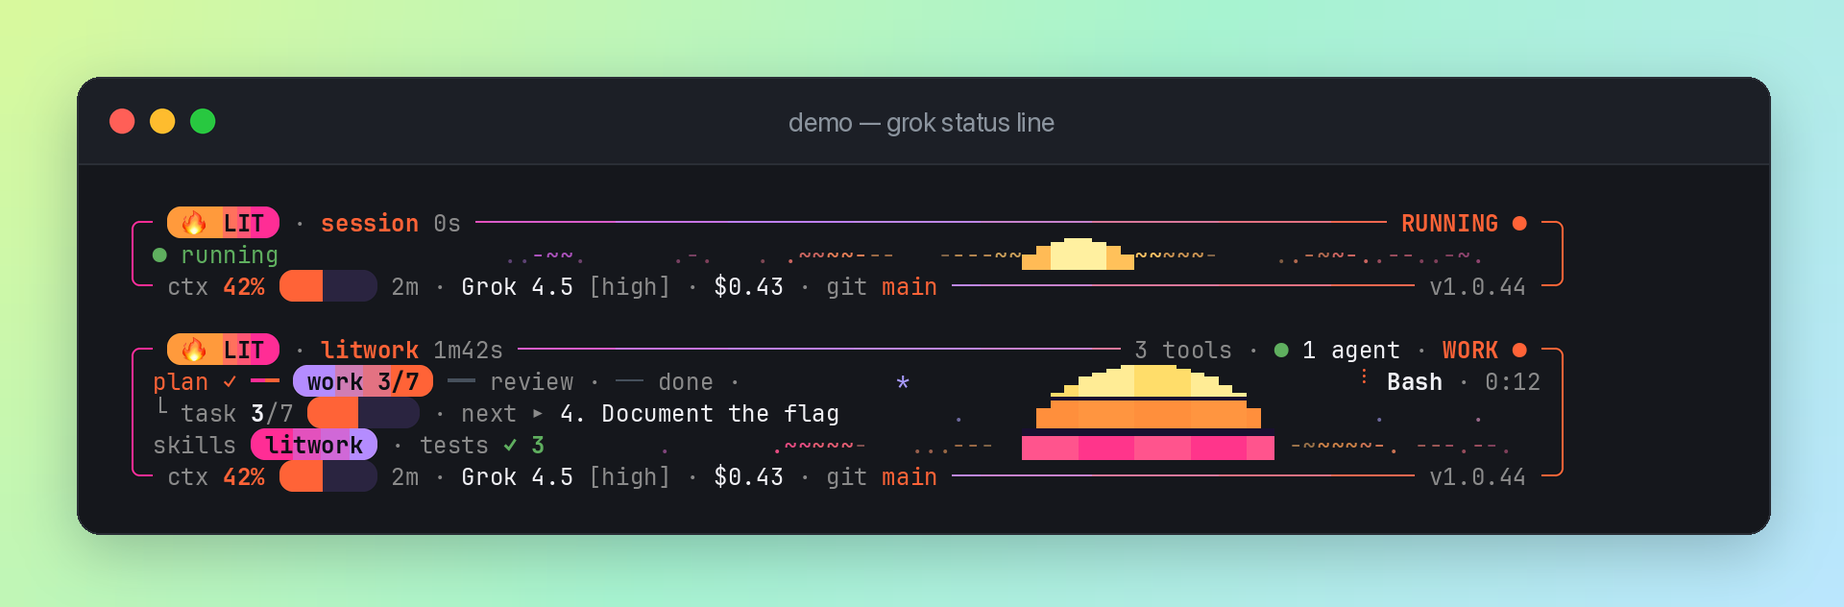
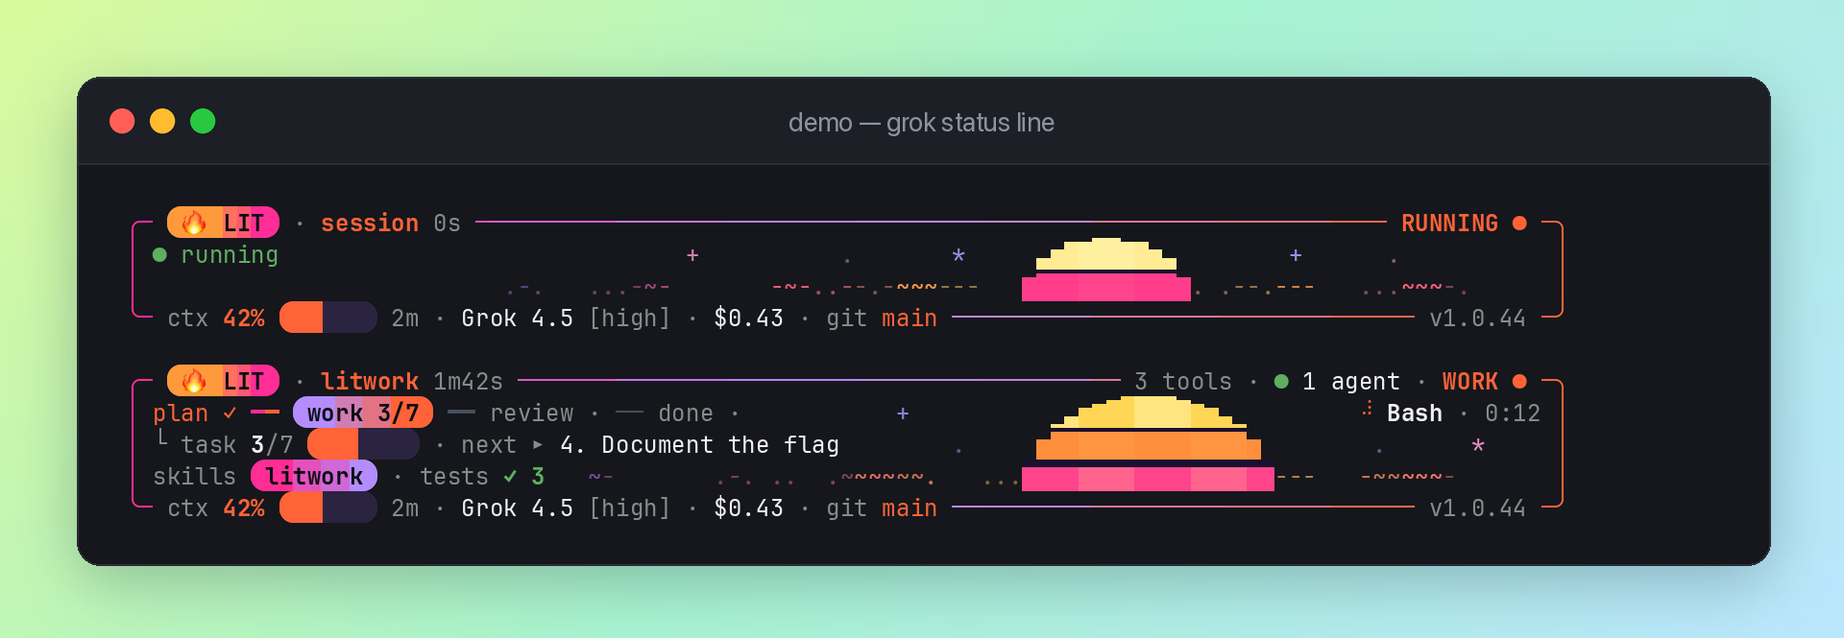
fix(hud): ready card keeps two rows so its sun has a dome

diff --git a/docs/guide.md b/docs/guide.md
@@ -60,9 +60,9 @@ When a session starts in a trusted project, the SessionStart hook prints the LIT
 
 *Captured from the SessionStart hook.*
 
-The optional [status row](#an-optional-status-row) is a card that Grok keeps at the bottom of the screen. Until a prompt names a LitGrok skill it is three lines: a flame `🔥 LIT` pill and the state on the top edge, a line that says whether a turn is running, and the context gauge, the model with its reasoning effort, the session's cost and the Git branch on the bottom edge. Once a prompt starts a skill, here `/litwork`, it grows to five. The top edge adds the skill and the turn's time, the tool calls so far and the subagents still running, with the stage as the state at the right. Inside, the stage map shows plan passed and work in progress with three of the plan's seven tasks checked, and the shell command in flight for 12 seconds; the next line has the task gauge and the next open task; the one under it the skill as a pill and the last test run. The sun, the stars and the sea stand in cells none of those words use. The window shows both states: the prompt hook was given an ordinary question first, then a `/lit-plan` prompt whose turn saved a seven-task plan and stopped, then a `/litwork` prompt. LitGrok's tool and subagent hooks logged three tool calls, one of them a real `node --test` run of three passing tests, and two subagents, one of them finished; then a shell command started, and the status-line command answered 12 seconds later. The model name, the effort, the 42%, the 2m window, the cost, the branch and the 1m42s turn are sample values passed in as input, since Grok supplies the real ones. The spinner in front of Bash turns at every redraw, and the sunset takes a step. The hooks ran as an installed copy, so the mark shows its version.
+The optional [status row](#an-optional-status-row) is a card that Grok keeps at the bottom of the screen. Until a prompt names a LitGrok skill it is four lines: a flame `🔥 LIT` pill and the state on the top edge, a line that says whether a turn is running with a small sun beside it and the sea below, and the context gauge, the model with its reasoning effort, the session's cost and the Git branch on the bottom edge. Once a prompt starts a skill, here `/litwork`, it grows to five. The top edge adds the skill and the turn's time, the tool calls so far and the subagents still running, with the stage as the state at the right. Inside, the stage map shows plan passed and work in progress with three of the plan's seven tasks checked, and the shell command in flight for 12 seconds; the next line has the task gauge and the next open task; the one under it the skill as a pill and the last test run. The sun, the stars and the sea stand in cells none of those words use. The window shows both states: the prompt hook was given an ordinary question first, then a `/lit-plan` prompt whose turn saved a seven-task plan and stopped, then a `/litwork` prompt. LitGrok's tool and subagent hooks logged three tool calls, one of them a real `node --test` run of three passing tests, and two subagents, one of them finished; then a shell command started, and the status-line command answered 12 seconds later. The model name, the effort, the 42%, the 2m window, the cost, the branch and the 1m42s turn are sample values passed in as input, since Grok supplies the real ones. The spinner in front of Bash turns at every redraw, and the sunset takes a step. The hooks ran as an installed copy, so the mark shows its version.
 
-<p align="center"><picture><source media="(prefers-color-scheme: dark)" srcset="./assets/screens/status-row-dark.webp" /><img src="./assets/screens/status-row-light.webp" width="960" alt="Terminal card titled demo — grok status line. Above, the status row between workflows, a three-line card in a pink-to-violet-to-orange frame: an orange-to-pink pill 🔥 LIT and · session on the top edge with RUNNING ● at the right, ● running inside beside a small sun on the horizon, and on the bottom edge ctx 42% with a round orange gauge, 2m · Grok 4.5 [high] · $0.43 · git main and the version. Below, the five-line LIT card. Its top edge has the pill, · litwork 1m42s in orange, and at the right 3 tools · ● 1 agent · WORK ●. The stage map reads plan ✓ ━━ with a violet-to-orange pill reading work 3/7, then review · ── done · in grey, and a spinner with Bash · 0:12 at the right. The next line reads task 3/7 with a round gauge and next ▸ 4. Document the flag. The one under it has litwork as a pink-to-violet pill and tests ✓ 3 in green. The bottom edge repeats ctx 42% with its gauge and 2m · Grok 4.5 [high] · $0.43 · git main. A half-sunk sun in gold, orange and pink with two dark slits stands over the last three inner lines, with stars and a sea of ~ - . beside it." /></picture></p>
+<p align="center"><picture><source media="(prefers-color-scheme: dark)" srcset="./assets/screens/status-row-dark.webp" /><img src="./assets/screens/status-row-light.webp" width="960" alt="Terminal card titled demo — grok status line. Above, the status row between workflows, a four-line card in a pink-to-violet-to-orange frame: an orange-to-pink pill 🔥 LIT and · session on the top edge with RUNNING ● at the right, ● running inside beside a two-row sun with stars and a sea, and on the bottom edge ctx 42% with a round orange gauge, 2m · Grok 4.5 [high] · $0.43 · git main and the version. Below, the five-line LIT card. Its top edge has the pill, · litwork 1m42s in orange, and at the right 3 tools · ● 1 agent · WORK ●. The stage map reads plan ✓ ━━ with a violet-to-orange pill reading work 3/7, then review · ── done · in grey, and a spinner with Bash · 0:12 at the right. The next line reads task 3/7 with a round gauge and next ▸ 4. Document the flag. The one under it has litwork as a pink-to-violet pill and tests ✓ 3 in green. The bottom edge repeats ctx 42% with its gauge and 2m · Grok 4.5 [high] · $0.43 · git main. A half-sunk sun in gold, orange and pink with two dark slits stands over the last three inner lines, with stars and a sea of ~ - . beside it." /></picture></p>
 
 *Captured from the prompt, tool and subagent hooks and the status-line command.*
 
@@ -104,7 +104,7 @@ Add `--notify` to the same command for a finish alert. It writes a `[ui.notifica
 <details>
 <summary>What the row shows</summary>
 
-In a truecolor terminal on a dark background the row is a framed card. When no LitGrok skill is active it has three lines: `🔥 LIT · ready` on the top edge, one line inside, and `ctx 42%` with its gauge, the size of the window, the model with its reasoning effort (shown only when Grok reports one), the session's cost so far, the Git branch and LitGrok's version on the bottom edge. The context gauge stays orange until 70%, turns yellow there and red at 90%. A value Grok does not send shows as `?` or is left out. With fewer colors, on a light background, or in a row under 35 cells the same facts are one unframed line, like `[🔥LIT vX.Y.Z] | Grok 4.5 [high] │ ctx [█▎░] 42%/2m │ $0.42 │ git main`.
+In a truecolor terminal on a dark background the row is a framed card. When no LitGrok skill is active it has four lines: `🔥 LIT · ready` on the top edge, the state inside beside a two-row sun over a line of sea, and `ctx 42%` with its gauge, the size of the window, the model with its reasoning effort (shown only when Grok reports one), the session's cost so far, the Git branch and LitGrok's version on the bottom edge. The context gauge stays orange until 70%, turns yellow there and red at 90%. A value Grok does not send shows as `?` or is left out. With fewer colors, on a light background, or in a row under 35 cells the same facts are one unframed line, like `[🔥LIT vX.Y.Z] | Grok 4.5 [high] │ ctx [█▎░] 42%/2m │ $0.42 │ git main`.
 
 The label comes from your latest prompt. LitGrok looks for the first of these names that appears in it: `lit-scientific-visualization`, `lit-handoff`, `autoconference`, `autoresearch`, `lit-plan` or `litwork`. A bare `lit` shows as `litwork`. Names inside inline or fenced code don't count, so pasting a snippet won't change the row.
 
@@ -114,7 +114,7 @@ Ends are one shape everywhere. Every pill and gauge of the row, and every pill a
 
 A short terminal shows fewer of the card's lines. Grok says how many, and the card then drops lines from its middle and keeps its frame closed; when the window grows it grows back.
 
-The sunset fills what is left. In the framed card, the three inner lines carry a half-sunk sun with stars over it and a sea that runs outward along the last of them, all in cells no text uses; the small card between workflows gets a small sun on the horizon with the sea beside it. Grok redraws the row about every 300 ms while a turn runs, and each redraw draws the scene for its moment: light ripples over the sun, the stars twinkle and the sea travels by changing colour or an ASCII mark, and every nine seconds a shooting star crosses. It is a stepped picture rather than a smooth film, because a status command draws only when Grok asks it to. Between turns it stands still, and it fades once the card is idle. It never moves or covers a word and never makes the card taller; a long row sends it down to a one-row sun, and where that has no room either it stays away. `lit-adhd` gives the sun its rewind colours, and `YOUR TURN` turns it amber.
+The sunset fills what is left. In the framed card, the three inner lines carry a half-sunk sun with stars over it and a sea that runs outward along the last of them, all in cells no text uses; the four-line card between workflows gets a two-row sun. Grok redraws the row about every 300 ms while a turn runs, and each redraw draws the scene for its moment: light ripples over the sun, the stars twinkle and the sea travels by changing colour or an ASCII mark, and every nine seconds a shooting star crosses. It is a stepped picture rather than a smooth film, because a status command draws only when Grok asks it to. Between turns it stands still, and it fades once the card is idle. It never moves or covers a word and never makes the card taller; a long row sends it down to a one-row sun, and where that has no room either it stays away. `lit-adhd` gives the sun its rewind colours, and `YOUR TURN` turns it amber.
 
 The card shows a yellow warning when something needs you: the plan gate held a planning turn that hasn't saved its plan, automatic handoff asked for a handoff, or the context is close to your handoff percent. The top edge says which in a few words, and the skills line says it in full, such as `⚠ plan gate: save plans/<slug>.md`. Grok's own numbers give the timer; the counts come from LitGrok's session log, and anything LitGrok can't read is left out rather than guessed. On a narrow screen the card gives up the version and the counts first, and the skill name, the current stage and the context gauge stay to the end.
 

diff --git a/docs/reference.md b/docs/reference.md
@@ -137,7 +137,7 @@ The timer is the time since Grok's `turn.started_at_ms`. Grok Build 1.0.13 sends
 
 The stage map shows the session's place in the LIT workflow, in the unframed rows for example `plan ✓ ━━━━ [work 3/7] ━━━━ review · ──── done ·`, with the detail line `└ task 3/7 ▮▮▮▯▯▯▯ · next ▸ 4. README demo GIF · tests ✓ 214` and `⠹ Bash 0:31` at its right edge. The map appears once the session has a workflow stage; `LITGROK_HUD_LINES=1` hides the card. The `UserPromptSubmit` hook sets the stage from the first visible match among `deep-interview` (interview), `lit-plan` (plan), `start-work`, `litwork` or bare `lit` (work) and `review-work` (review), with the same code masking as the discipline, and records it as `stage` in the ledger. `lit review` as the first words of the prompt is the spaced spelling of `review-work`: it switches to the review stage and sets no status-row discipline. `lit brainstorm`, `lit ideation`, `lit ideate`, `lit idea`, `lit ideas` and `lit-brainstorm` as the first words open `lit-brainstorm`: the status row shows that name, the ledger record carries no stage and arms no plan gate, and a running stage stays as it is. A bare `lit` continues a stage that is running: it clears `ended` and changes neither the stage, the stages visited, the plan count nor the test verdict, unless the stage is `done` or none is set, when it starts work. A named skill switches the stage, and so does `lit plan` as the first words of the prompt, which also marks the turn `lit-plan` for the plan gate and the status row. `lit new` or `lit restart` as the first words of the prompt clears the stages visited, the plan count and the test verdict before it sets work; the plan count is then read again from `plans/`. State that is missing, malformed, oversized or from another session is replaced by a first activation, and the prompt hook still writes no stdout. The `PreToolUse` hook, registered for every tool, records only the tool name; a call is in flight while that record is the turn's newest tool record, and the line shows Grok's name mapped to a short label (`run_terminal_command` as `Bash`, `search_replace` as `Edit`) with the time since the record. The `PostToolUse` hook, now also registered for every tool, and `PostToolUseFailure` add `test: { verdict, count }` when `toolInput.command` calls a test runner (npm, pnpm, yarn or bun `test`, `node --test`, vitest, jest, mocha, pytest, unittest, cargo, go, deno, make, gradle, mvn, rspec, ctest, swift or dotnet test) outside a heredoc body or a quoted string; the verdict comes from the failure event, a non-zero exit code, or the runner's pass and fail counts in `toolResult`, and nothing is recorded when the outcome cannot be read. Because the line must survive a ledger tail of 128 KiB, the hooks also keep `<session-hash>.workflow.json` beside the ledger: stage, stages visited, whether the stage's turn has ended, the newest `plans/*.md` checkbox count (`- [x] N.` over all column-zero rows outside fences) with the first unchecked row's title, control characters removed and cut to 60 characters, and the last test verdict, at most 4 KiB, written atomically, refused through a symlink and only once there is something to show. `Stop` closes the stage unless the plan gate or a handoff directive held the turn; a review that ends with every task checked becomes done. In colour, as the family's LIT card draws it, stages behind are grey with a tick, the current stage is an accent chip with dark text (a violet-to-accent pill in the framed card) and stages ahead are grey with a dot; rails into a passed or current stage are the accent, the rail leaving the current stage is a grey `━` and those further on are grey `─`, and while a turn runs one pink cell moves along the rail into the current stage at each redraw. The tool step is the bold accent and the test badge green or red. The stage names are LitGrok's own (`interview`, `plan`, `work`, `review`, `done`); LitGrok has no PIN-to-RECORD loop skill. Narrow rows shorten the rails to two cells and one, then drop the stage names, and finally keep only the current stage.
 
-The framed card (`.grok/hooks/lit-card.mjs`) is drawn in truecolor, with any glyph set but `ascii`, unless `COLORFGBG` names a light background (it ends in `7` or `15`), from 35 cells up and at most 200 wide. With a discipline or a stage it is always five lines: the top edge (an orange-to-pink `🔥 LIT` pill, `· <discipline> <timer>`, then at the right the tool calls, the running subagents, a short warning and the state word); the stage map with the tool in flight at the right; `└ task 3/7`, an eight-cell gauge and the next task; the skill as a pill, the last test verdict, the long warning and other sessions, or the review lanes, or the one-time extensions row; and the bottom edge (the context percent with a seven-cell gauge, the window size, the model and effort, the handoff percent, the cost and the branch, with the version at the right). Without either it is three lines, four with the extensions row and five with other sessions. The state word is the stage (`WORK ●`, or `RUNNING ●` without one), `YOUR TURN · <reason> ●`, `DONE ✓` for twenty seconds, `ERROR ✗` after a `StopFailure`, or `IDLE ○`. The frame runs from pink through violet to the accent in twelve steps: to amber on your turn, red after an error, green when done, and faded while idle. `LINES` from 2 to 4, which Grok sends when a short terminal shows fewer lines, drops inner lines from the bottom and keeps the frame closed; the freed lines are printed as one space each, because Grok drops empty trailing lines and the count it sends next is how the card learns that it may grow back. Every line stays within 1024 characters: the version, the counts and far light go first.
+The framed card (`.grok/hooks/lit-card.mjs`) is drawn in truecolor, with any glyph set but `ascii`, unless `COLORFGBG` names a light background (it ends in `7` or `15`), from 35 cells up and at most 200 wide. With a discipline or a stage it is always five lines: the top edge (an orange-to-pink `🔥 LIT` pill, `· <discipline> <timer>`, then at the right the tool calls, the running subagents, a short warning and the state word); the stage map with the tool in flight at the right; `└ task 3/7`, an eight-cell gauge and the next task; the skill as a pill, the last test verdict, the long warning and other sessions, or the review lanes, or the one-time extensions row; and the bottom edge (the context percent with a seven-cell gauge, the window size, the model and effort, the handoff percent, the cost and the branch, with the version at the right). Without either it is four lines, with or without the extensions row, and up to five with other sessions. The state word is the stage (`WORK ●`, or `RUNNING ●` without one), `YOUR TURN · <reason> ●`, `DONE ✓` for twenty seconds, `ERROR ✗` after a `StopFailure`, or `IDLE ○`. The frame runs from pink through violet to the accent in twelve steps: to amber on your turn, red after an error, green when done, and faded while idle. `LINES` from 2 to 4, which Grok sends when a short terminal shows fewer lines, drops inner lines from the bottom and keeps the frame closed; the freed lines are printed as one space each, because Grok drops empty trailing lines and the count it sends next is how the card learns that it may grow back. Every line stays within 1024 characters: the version, the counts and far light go first.
 
 Round ends (`.grok/hooks/lit-caps.mjs`) are decided once per run, for the status row and for the installer. `LITGROK_HUD_GLYPHS` `nerd` or `round` is yes, `basic` or `ascii` no; then `WT_SESSION`, `TERM_PROGRAM` `vscode`, `wezterm` or `ghostty`, `TERM=xterm-kitty` or `KITTY_WINDOW_ID` is yes; then `SSH_CONNECTION` is no; else yes when a `.ttf`, `.otf` or `.ttc` file named like a Nerd Font is in the user's or the system's font folders (three levels down, at most 4,000 names, no link followed, no font opened). A pill's caps U+E0B6 and U+E0B4 take the cells that are filled padding in the square form, so no width changes. The status command keeps the font answer for a day as `icon-font.json` in the temporary `litgrok-hud` root; the installer looks itself and stores nothing. 256 colours, 16 colours, no colour and a light background are always square.
 

diff --git a/docs/reference_ko-KR.md b/docs/reference_ko-KR.md
@@ -138,7 +138,7 @@ refresh_interval = 2
 
 단계 지도는 세션이 LIT 작업 흐름의 어디쯤인지 보여 줍니다. 테두리 없는 행에서는 예를 들면 `plan ✓ ━━━━ [work 3/7] ━━━━ review · ──── done ·`이고, 그 아래 세부 줄은 `└ task 3/7 ▮▮▮▯▯▯▯ · next ▸ 4. README demo GIF · tests ✓ 214`에 오른쪽 끝 `⠹ Bash 0:31`입니다. 지도는 세션에 작업 흐름 단계가 생기면 나타나고, `LITGROK_HUD_LINES=1`이면 카드 전체를 숨깁니다. `UserPromptSubmit` 훅은 프롬프트에서 보이는 첫 일치 항목으로 단계를 정합니다. `deep-interview`는 interview, `lit-plan`은 plan, `start-work`·`litwork`·`lit`만 쓴 경우는 work, `review-work`는 review이며, 코드 가리기 규칙은 discipline과 같고, ledger에 `stage`로 남깁니다. 프롬프트가 `lit review`로 시작하면 `review-work`의 띄어쓰기 표기로 보고 review 단계로 바꾸며 상태 줄 discipline은 정하지 않습니다. `lit brainstorm`, `lit ideation`, `lit ideate`, `lit idea`, `lit ideas`, `lit-brainstorm`으로 시작하면 `lit-brainstorm`을 엽니다. 상태 줄에 그 이름이 나오고, ledger 기록에는 stage가 없으며 plan gate도 켜지 않고, 진행 중인 단계는 그대로 둡니다. 모든 도구에 등록한 `PreToolUse` 훅은 도구 이름만 기록합니다. 그 기록이 턴의 가장 최근 도구 기록이면 실행 중으로 보고, Grok의 도구 이름을 짧은 이름(`run_terminal_command`는 `Bash`, `search_replace`는 `Edit`)으로 바꿔 기록 이후 경과 시간과 함께 보여 줍니다. 이제 모든 도구에 등록한 `PostToolUse` 훅과 `PostToolUseFailure` 훅은 `toolInput.command`가 테스트 실행기(npm·pnpm·yarn·bun `test`, `node --test`, vitest, jest, mocha, pytest, unittest, cargo, go, deno, make, gradle, mvn, rspec, ctest, swift, dotnet test)를 heredoc 본문이나 따옴표 문자열 밖에서 부를 때 `test: { verdict, count }`를 더합니다. 결과는 실패 이벤트, 0이 아닌 종료 코드, `toolResult`에 찍힌 통과·실패 수로 정하고, 결과를 읽을 수 없으면 남기지 않습니다. ledger는 끝의 128 KiB만 읽으므로 훅은 ledger 옆에 `<session-hash>.workflow.json`도 둡니다. 단계, 거친 단계, 그 단계의 턴이 끝났는지, 가장 최근 `plans/*.md`의 체크 수(펜스 밖 첫 열 작업 행 가운데 `- [x] N.`의 수)와 체크하지 않은 첫 행의 제목(제어 문자를 지우고 60자로 자름), 마지막 테스트 결과를 담으며, 4 KiB 이하로 원자적으로 쓰고, 심볼릭 링크는 거부하며, 보여 줄 것이 생겼을 때만 만듭니다. `Stop`은 plan gate나 핸드오프 지시가 턴을 붙잡지 않았으면 단계를 닫고, 모든 작업이 체크된 상태로 끝난 검토는 done이 됩니다. 색을 쓰면 패밀리 LIT 카드처럼 지나온 단계는 회색에 체크, 지금 단계는 어두운 글자의 강조색 칩(테두리 카드에서는 보라에서 강조색으로 이어지는 알약), 앞으로 올 단계는 회색에 점입니다. 지나온 단계와 지금 단계로 들어가는 레일은 강조색, 지금 단계에서 나가는 레일은 회색 `━`, 그 뒤는 회색 `─`이고, 턴이 도는 동안 분홍 칸 하나가 다시 그릴 때마다 지금 단계로 들어가는 레일을 따라 움직입니다. 도구 표시는 굵은 강조색, 테스트 표시는 초록이나 빨강입니다. 단계 이름은 LitGrok 자신의 것(`interview`, `plan`, `work`, `review`, `done`)이고, LitGrok에는 PIN에서 RECORD로 가는 루프 스킬이 없습니다. 줄이 좁으면 레일을 두 칸, 한 칸으로 줄이고, 이어서 단계 이름을 빼며, 마지막에는 지금 단계만 남깁니다.
 
-테두리 카드(`.grok/hooks/lit-card.mjs`)는 truecolor이고 글리프가 `ascii`가 아니며 `COLORFGBG`가 밝은 배경(`7`이나 `15`로 끝남)을 알리지 않을 때, 35칸부터 최대 200칸까지 그립니다. 규율이나 단계가 있으면 언제나 다섯 줄입니다. 윗변(주황에서 분홍으로 물든 `🔥 LIT` 알약, `· <discipline> <시간>`, 오른쪽에 도구 호출 수, 도는 하위 에이전트, 짧은 경고, 상태 낱말), 오른쪽에 실행 중인 도구가 붙은 단계 지도, `└ task 3/7`과 여덟 칸 게이지와 다음 작업, 알약 모양의 스킬과 마지막 테스트 결과와 긴 경고와 다른 세션(또는 검토 lane, 또는 한 번만 나오는 extensions 행), 아랫변(일곱 칸 게이지가 붙은 컨텍스트 비율, 창 크기, 모델과 effort, 핸드오프 퍼센트, 비용, 브랜치, 오른쪽에 버전)입니다. 둘 다 없으면 세 줄이고, extensions 행이 있으면 네 줄, 다른 세션이 있으면 다섯 줄까지입니다. 상태 낱말은 단계(`WORK ●`, 단계가 없으면 `RUNNING ●`), `YOUR TURN · <이유> ●`, 20초 동안의 `DONE ✓`, `StopFailure` 뒤의 `ERROR ✗`, `IDLE ○`입니다. 테두리는 분홍에서 보라를 거쳐 강조색까지 열두 단계로 이어지고, 사용자 차례면 호박색, 오류면 빨강, 끝나면 초록으로 끝나며 쉴 때는 옅어집니다. 높이가 낮아 줄이 덜 보일 때 Grok이 보내는 `LINES` 2~4에서는 안쪽 줄을 아래부터 빼고 테두리를 닫습니다. 남는 줄은 공백 하나로 출력합니다. Grok은 끝의 빈 줄을 버리고 다음에 보내는 수로 다시 커질 수 있는지 알려 주기 때문입니다. 모든 줄은 1024자 안이고, 버전과 수, 먼 빛부터 뺍니다.
+테두리 카드(`.grok/hooks/lit-card.mjs`)는 truecolor이고 글리프가 `ascii`가 아니며 `COLORFGBG`가 밝은 배경(`7`이나 `15`로 끝남)을 알리지 않을 때, 35칸부터 최대 200칸까지 그립니다. 규율이나 단계가 있으면 언제나 다섯 줄입니다. 윗변(주황에서 분홍으로 물든 `🔥 LIT` 알약, `· <discipline> <시간>`, 오른쪽에 도구 호출 수, 도는 하위 에이전트, 짧은 경고, 상태 낱말), 오른쪽에 실행 중인 도구가 붙은 단계 지도, `└ task 3/7`과 여덟 칸 게이지와 다음 작업, 알약 모양의 스킬과 마지막 테스트 결과와 긴 경고와 다른 세션(또는 검토 lane, 또는 한 번만 나오는 extensions 행), 아랫변(일곱 칸 게이지가 붙은 컨텍스트 비율, 창 크기, 모델과 effort, 핸드오프 퍼센트, 비용, 브랜치, 오른쪽에 버전)입니다. 둘 다 없으면 extensions 행이 있든 없든 네 줄이고, 다른 세션이 있으면 다섯 줄까지입니다. 상태 낱말은 단계(`WORK ●`, 단계가 없으면 `RUNNING ●`), `YOUR TURN · <이유> ●`, 20초 동안의 `DONE ✓`, `StopFailure` 뒤의 `ERROR ✗`, `IDLE ○`입니다. 테두리는 분홍에서 보라를 거쳐 강조색까지 열두 단계로 이어지고, 사용자 차례면 호박색, 오류면 빨강, 끝나면 초록으로 끝나며 쉴 때는 옅어집니다. 높이가 낮아 줄이 덜 보일 때 Grok이 보내는 `LINES` 2~4에서는 안쪽 줄을 아래부터 빼고 테두리를 닫습니다. 남는 줄은 공백 하나로 출력합니다. Grok은 끝의 빈 줄을 버리고 다음에 보내는 수로 다시 커질 수 있는지 알려 주기 때문입니다. 모든 줄은 1024자 안이고, 버전과 수, 먼 빛부터 뺍니다.
 
 둥근 끝(`.grok/hooks/lit-caps.mjs`)은 상태 행과 설치 프로그램이 실행마다 한 번 정합니다. `LITGROK_HUD_GLYPHS`가 `nerd`나 `round`면 둥글고 `basic`이나 `ascii`면 네모입니다. 설정이 없으면 `WT_SESSION`, `TERM_PROGRAM`이 `vscode`·`wezterm`·`ghostty`, `TERM=xterm-kitty`, `KITTY_WINDOW_ID`에서 둥글고, 그다음 `SSH_CONNECTION`이 있으면 네모이며, 그 밖에는 사용자나 시스템 글꼴 폴더에 Nerd Font 이름의 `.ttf`·`.otf`·`.ttc` 파일이 있을 때 둥급니다(세 단계 아래까지, 이름 최대 4,000개, 링크를 따라가지 않고 글꼴을 열지 않음). 알약의 U+E0B6과 U+E0B4는 네모 모양에서 채운 여백인 칸을 쓰므로 폭이 같습니다. 상태 command는 글꼴 답을 임시 `litgrok-hud` root의 `icon-font.json`에 하루 동안 두고, 설치 프로그램은 직접 찾아보고 아무것도 저장하지 않습니다. 256색, 16색, 색 없음, 밝은 배경은 언제나 네모입니다.
 

diff --git a/CHANGELOG.md b/CHANGELOG.md
@@ -1,8 +1,8 @@
 # Changelog
 
-## 1.0.45
+## Unreleased
 
-- The status row is now one framed card, in a truecolor terminal on a dark background. The title stands on the top edge with a single flame `🔥 LIT` pill, the skill and its time, the tool calls, the subagents and the turn's state (`WORK ●`, `YOUR TURN`, `DONE ✓`, `ERROR ✗`, `IDLE ○`); inside are the stage map with the tool in flight, the task with a gauge and the next step, and the skill as a pill with the last test verdict and any warning; the bottom edge carries the context gauge, the model, the cost, the branch and the version. The frame runs from pink through violet to orange, and its colour says the state. While work is on the card always takes Grok's five lines, so the row does not jump; with no workflow it is three lines. The three-row sun stands wherever the words leave room. A short terminal gets a shorter card with a closed frame, and a row under 35 cells keeps the earlier unframed rows.
+- The status row is now one framed card, in a truecolor terminal on a dark background. The title stands on the top edge with a single flame `🔥 LIT` pill, the skill and its time, the tool calls, the subagents and the turn's state (`WORK ●`, `YOUR TURN`, `DONE ✓`, `ERROR ✗`, `IDLE ○`); inside are the stage map with the tool in flight, the task with a gauge and the next step, and the skill as a pill with the last test verdict and any warning; the bottom edge carries the context gauge, the model, the cost, the branch and the version. The frame runs from pink through violet to orange, and its colour says the state. While work is on the card always takes Grok's five lines, so the row does not jump; with no workflow it is four lines under a two-row sun. The three-row sun stands wherever the words leave room. A short terminal gets a shorter card with a closed frame, and a row under 35 cells keeps the earlier unframed rows.
 - One rule decides every round end, on the status row and in the installer: pills, gauges, chips and buttons are all round, or all square, never mixed. `LITGROK_HUD_GLYPHS=round` (or `nerd`) says round, `basic` or `ascii` says square. Without it they are round in Windows Terminal, the VS Code terminal, WezTerm, Ghostty and kitty, square over SSH, and otherwise round when a font file on this machine is named like a Nerd Font. Only file names are read, at most 4,000, no font is opened, and the status row remembers the answer for a day in its temporary folder.
 - Fixed: a row wider than 200 cells could spend Grok's 1,024 characters a line on colours, and a name with zero-width or combining characters could push the right edge out of line.
 - The installer's cards follow the same look: the mark centred over the cards, a step pill on the border (`LIT 1/1`), round or square buttons with one filled chip, one blank row between blocks and every value in one column. The steps are one card that folds to `✓ Install steps  4 of 4 checked`; a step that stops leaves the card on screen above a red `INSTALL STOPPED` card. Warnings are counted in the folded row and printed in full under it. The closing card now says where a status line or a finish notice was configured, or that an existing setting of yours was left alone, paths in it start with `~`, and the extension commands stand whole on lines of their own.
